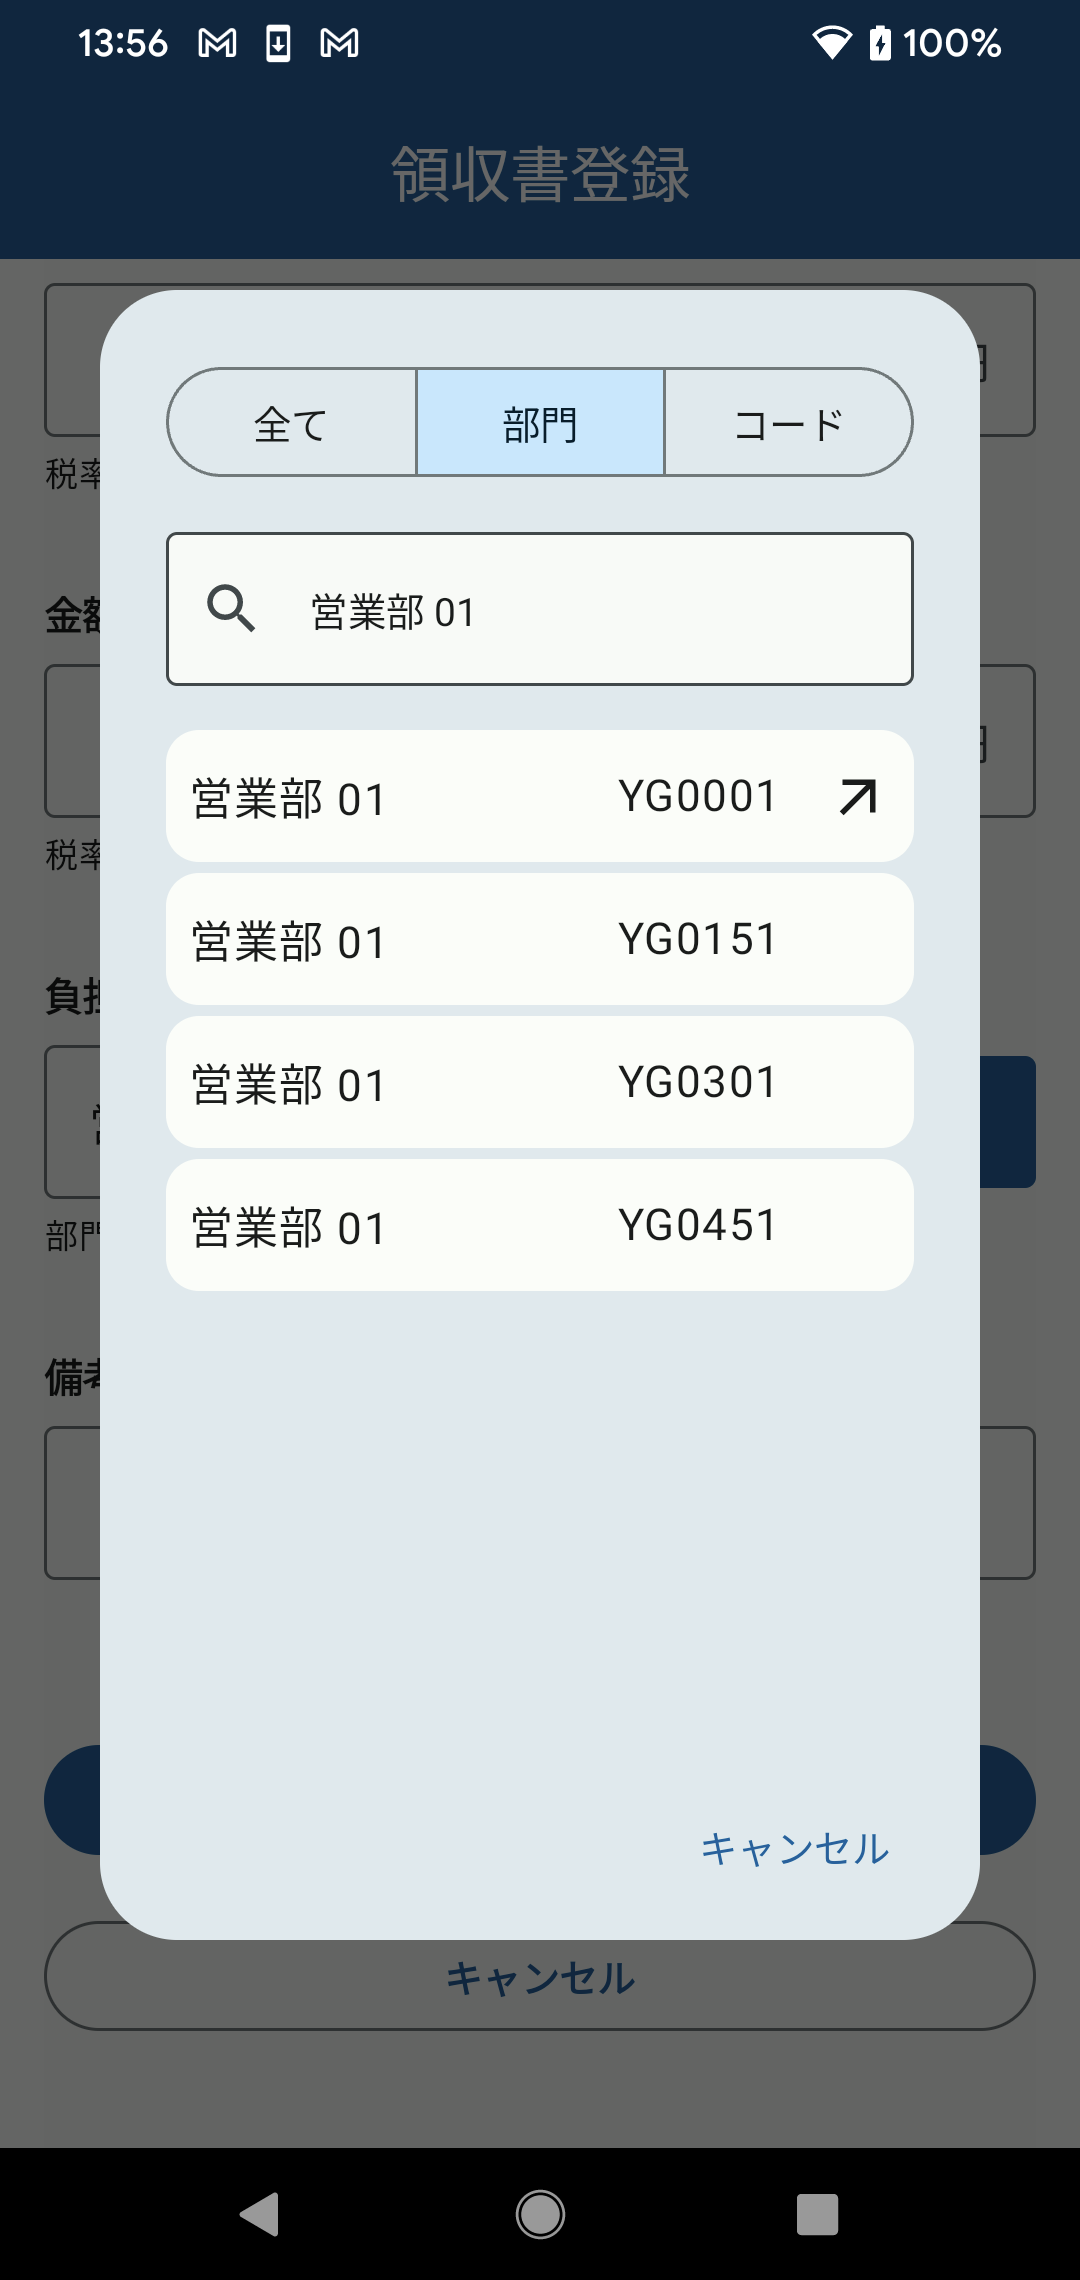
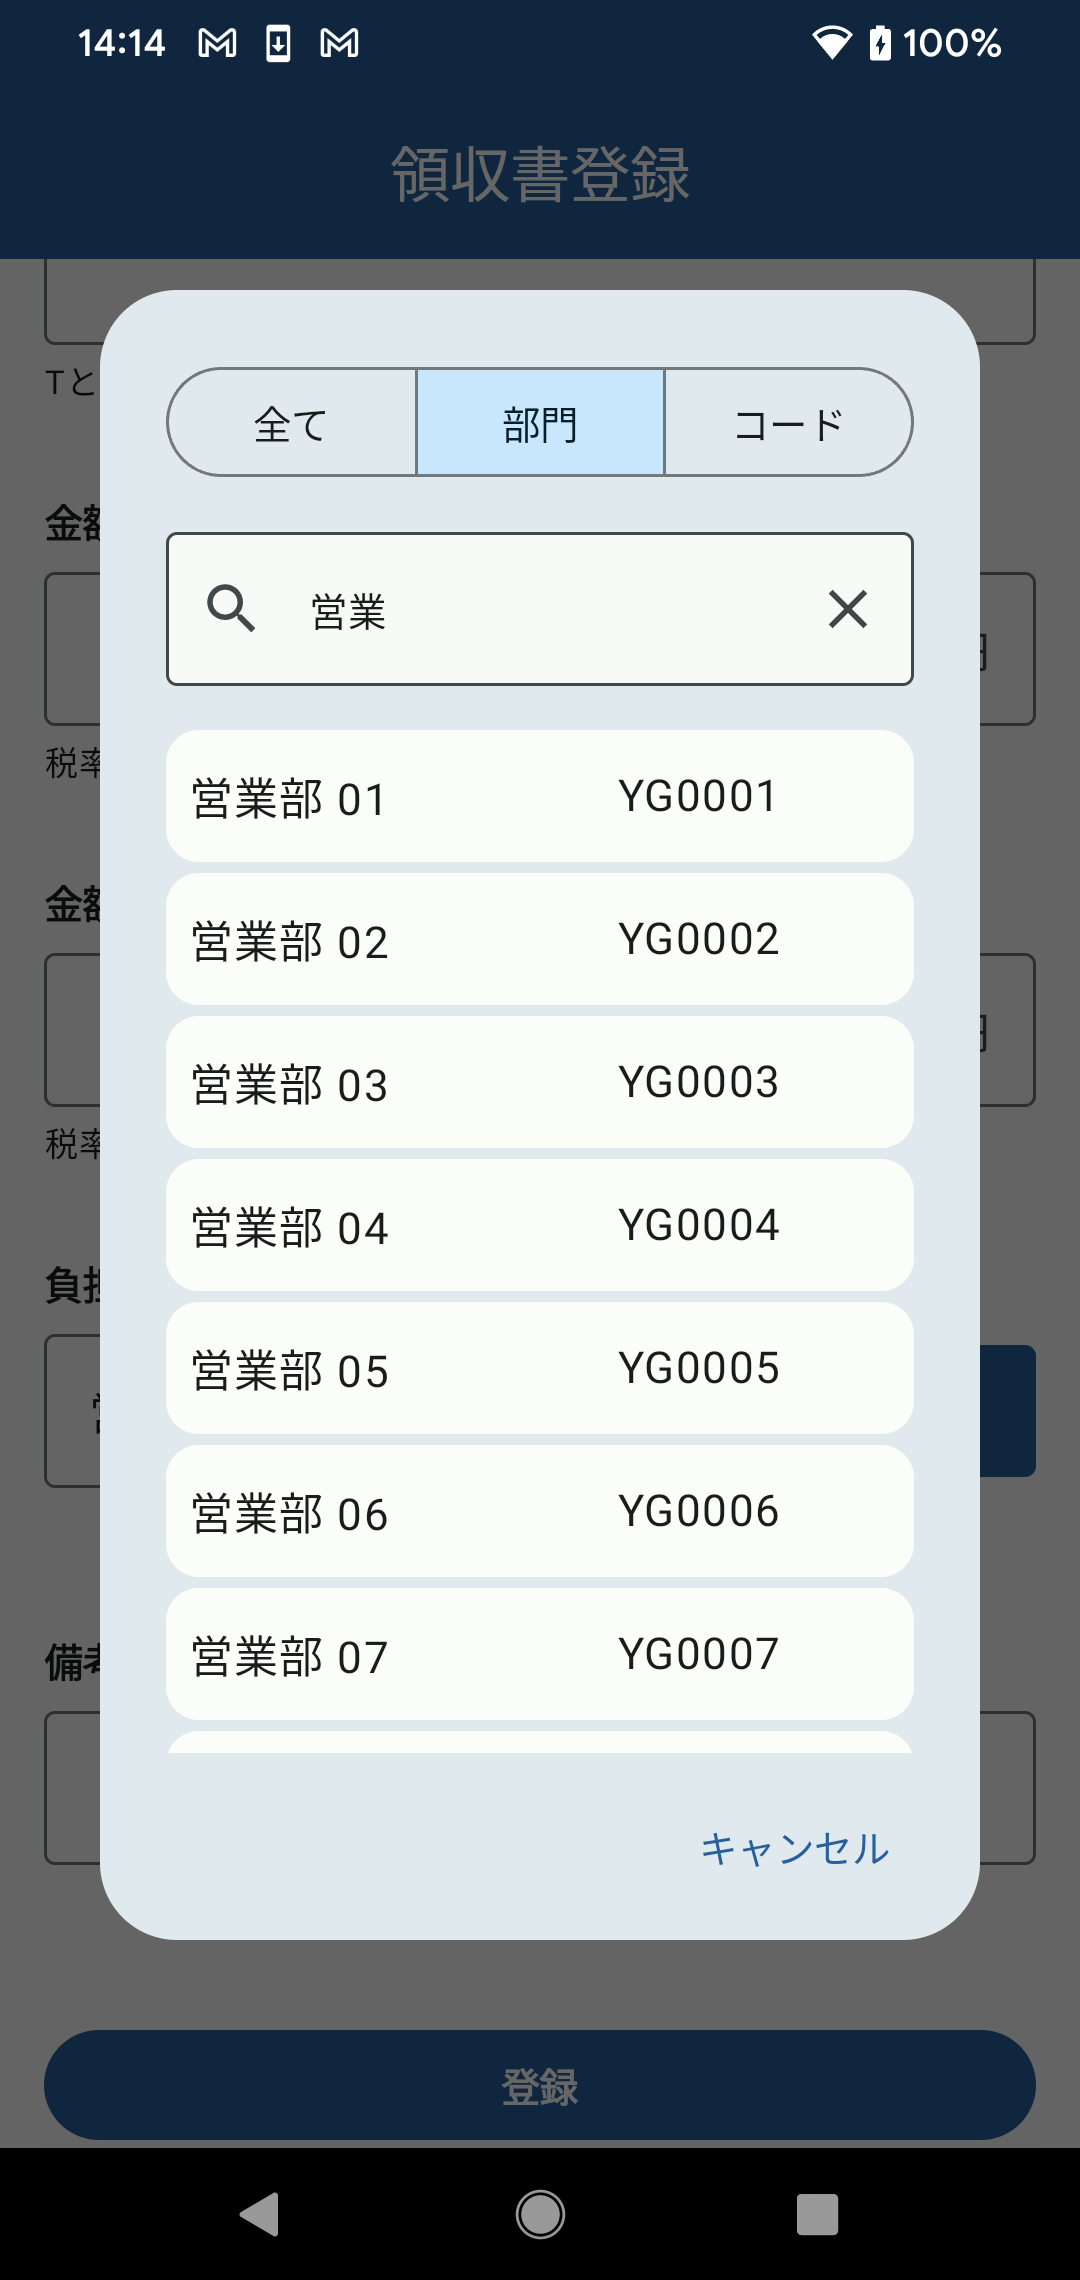
fix Screenshoot

diff --git a/app/src/main/java/jp/co/accountant/domain/expense/ui/component/SearchDialog.kt b/app/src/main/java/jp/co/accountant/domain/expense/ui/component/SearchDialog.kt
@@ -7,7 +7,11 @@ import androidx.compose.foundation.layout.padding
 import androidx.compose.foundation.layout.requiredHeight
 import androidx.compose.foundation.lazy.LazyColumn
 import androidx.compose.foundation.lazy.items
+import androidx.compose.material.icons.Icons
+import androidx.compose.material.icons.filled.Clear
 import androidx.compose.material3.AlertDialog
+import androidx.compose.material3.Icon
+import androidx.compose.material3.IconButton
 import androidx.compose.material3.MaterialTheme
 import androidx.compose.material3.Text
 import androidx.compose.runtime.Composable
@@ -16,7 +20,6 @@ import androidx.compose.runtime.collectAsState
 import androidx.compose.runtime.getValue
 import androidx.compose.runtime.mutableStateOf
 import androidx.compose.runtime.remember
-import androidx.compose.runtime.rememberCoroutineScope
 import androidx.compose.runtime.setValue
 import androidx.compose.ui.Modifier
 import androidx.compose.ui.res.dimensionResource
@@ -27,7 +30,6 @@ import jp.co.accountant.app.data.department.Department
 import jp.co.accountant.app.ui.SearchTextField
 import jp.co.accountant.domain.expense.SegmentType
 import jp.co.accountant.domain.expense.ui.SearchViewModel
-import kotlinx.coroutines.launch
 
 @Composable
 fun SearchDialog(
@@ -39,7 +41,6 @@ fun SearchDialog(
     var query by remember { mutableStateOf(text) }
     var placeHolderResId by remember { mutableStateOf(R.string.placeholder_search) }
     val searchResults by viewModel.searchResults.collectAsState()
-    val scope = rememberCoroutineScope()
 
     LaunchedEffect(text) {
         viewModel.onSearch(text)
@@ -69,16 +70,25 @@ fun SearchDialog(
                             style = MaterialTheme.typography.bodyMedium
                         )
                     },
-                    onValueChange = { newValue ->
-                        query = newValue
-                        scope.launch {
-                            viewModel.onSearch(query)
+                    trailingIcon = {
+                        if (query.isNotEmpty()) {
+                            IconButton(onClick = {
+                                query = ""
+                                viewModel.onSearch(query)
+                            }) {
+                                Icon(
+                                    imageVector = Icons.Default.Clear,
+                                    contentDescription = null
+                                )
+                            }
                         }
                     },
+                    onValueChange = { newValue ->
+                        query = newValue
+                        viewModel.onSearch(query)
+                    },
                     onClickLeadingIcon = {
-                        scope.launch {
-                            viewModel.onSearch(query)
-                        }
+                        viewModel.onSearch(query)
                     }
                 )
                 LazyColumn(

diff --git a/app/src/main/java/jp/co/accountant/app/ui/SearchTextField.kt b/app/src/main/java/jp/co/accountant/app/ui/SearchTextField.kt
@@ -23,6 +23,7 @@ fun SearchTextField(
     text: String,
     modifier: Modifier = Modifier,
     placeholder: @Composable (() -> Unit)? = null,
+    trailingIcon: @Composable (() -> Unit)? = null,
     onValueChange: (String) -> Unit,
     onClickLeadingIcon: (String) -> Unit
 ) {
@@ -44,6 +45,7 @@ fun SearchTextField(
                 )
             }
         },
+        trailingIcon = trailingIcon,
         colors = TextFieldDefaults.colors(
             unfocusedContainerColor = MaterialTheme.colorScheme.surface,
             focusedContainerColor = MaterialTheme.colorScheme.surface
